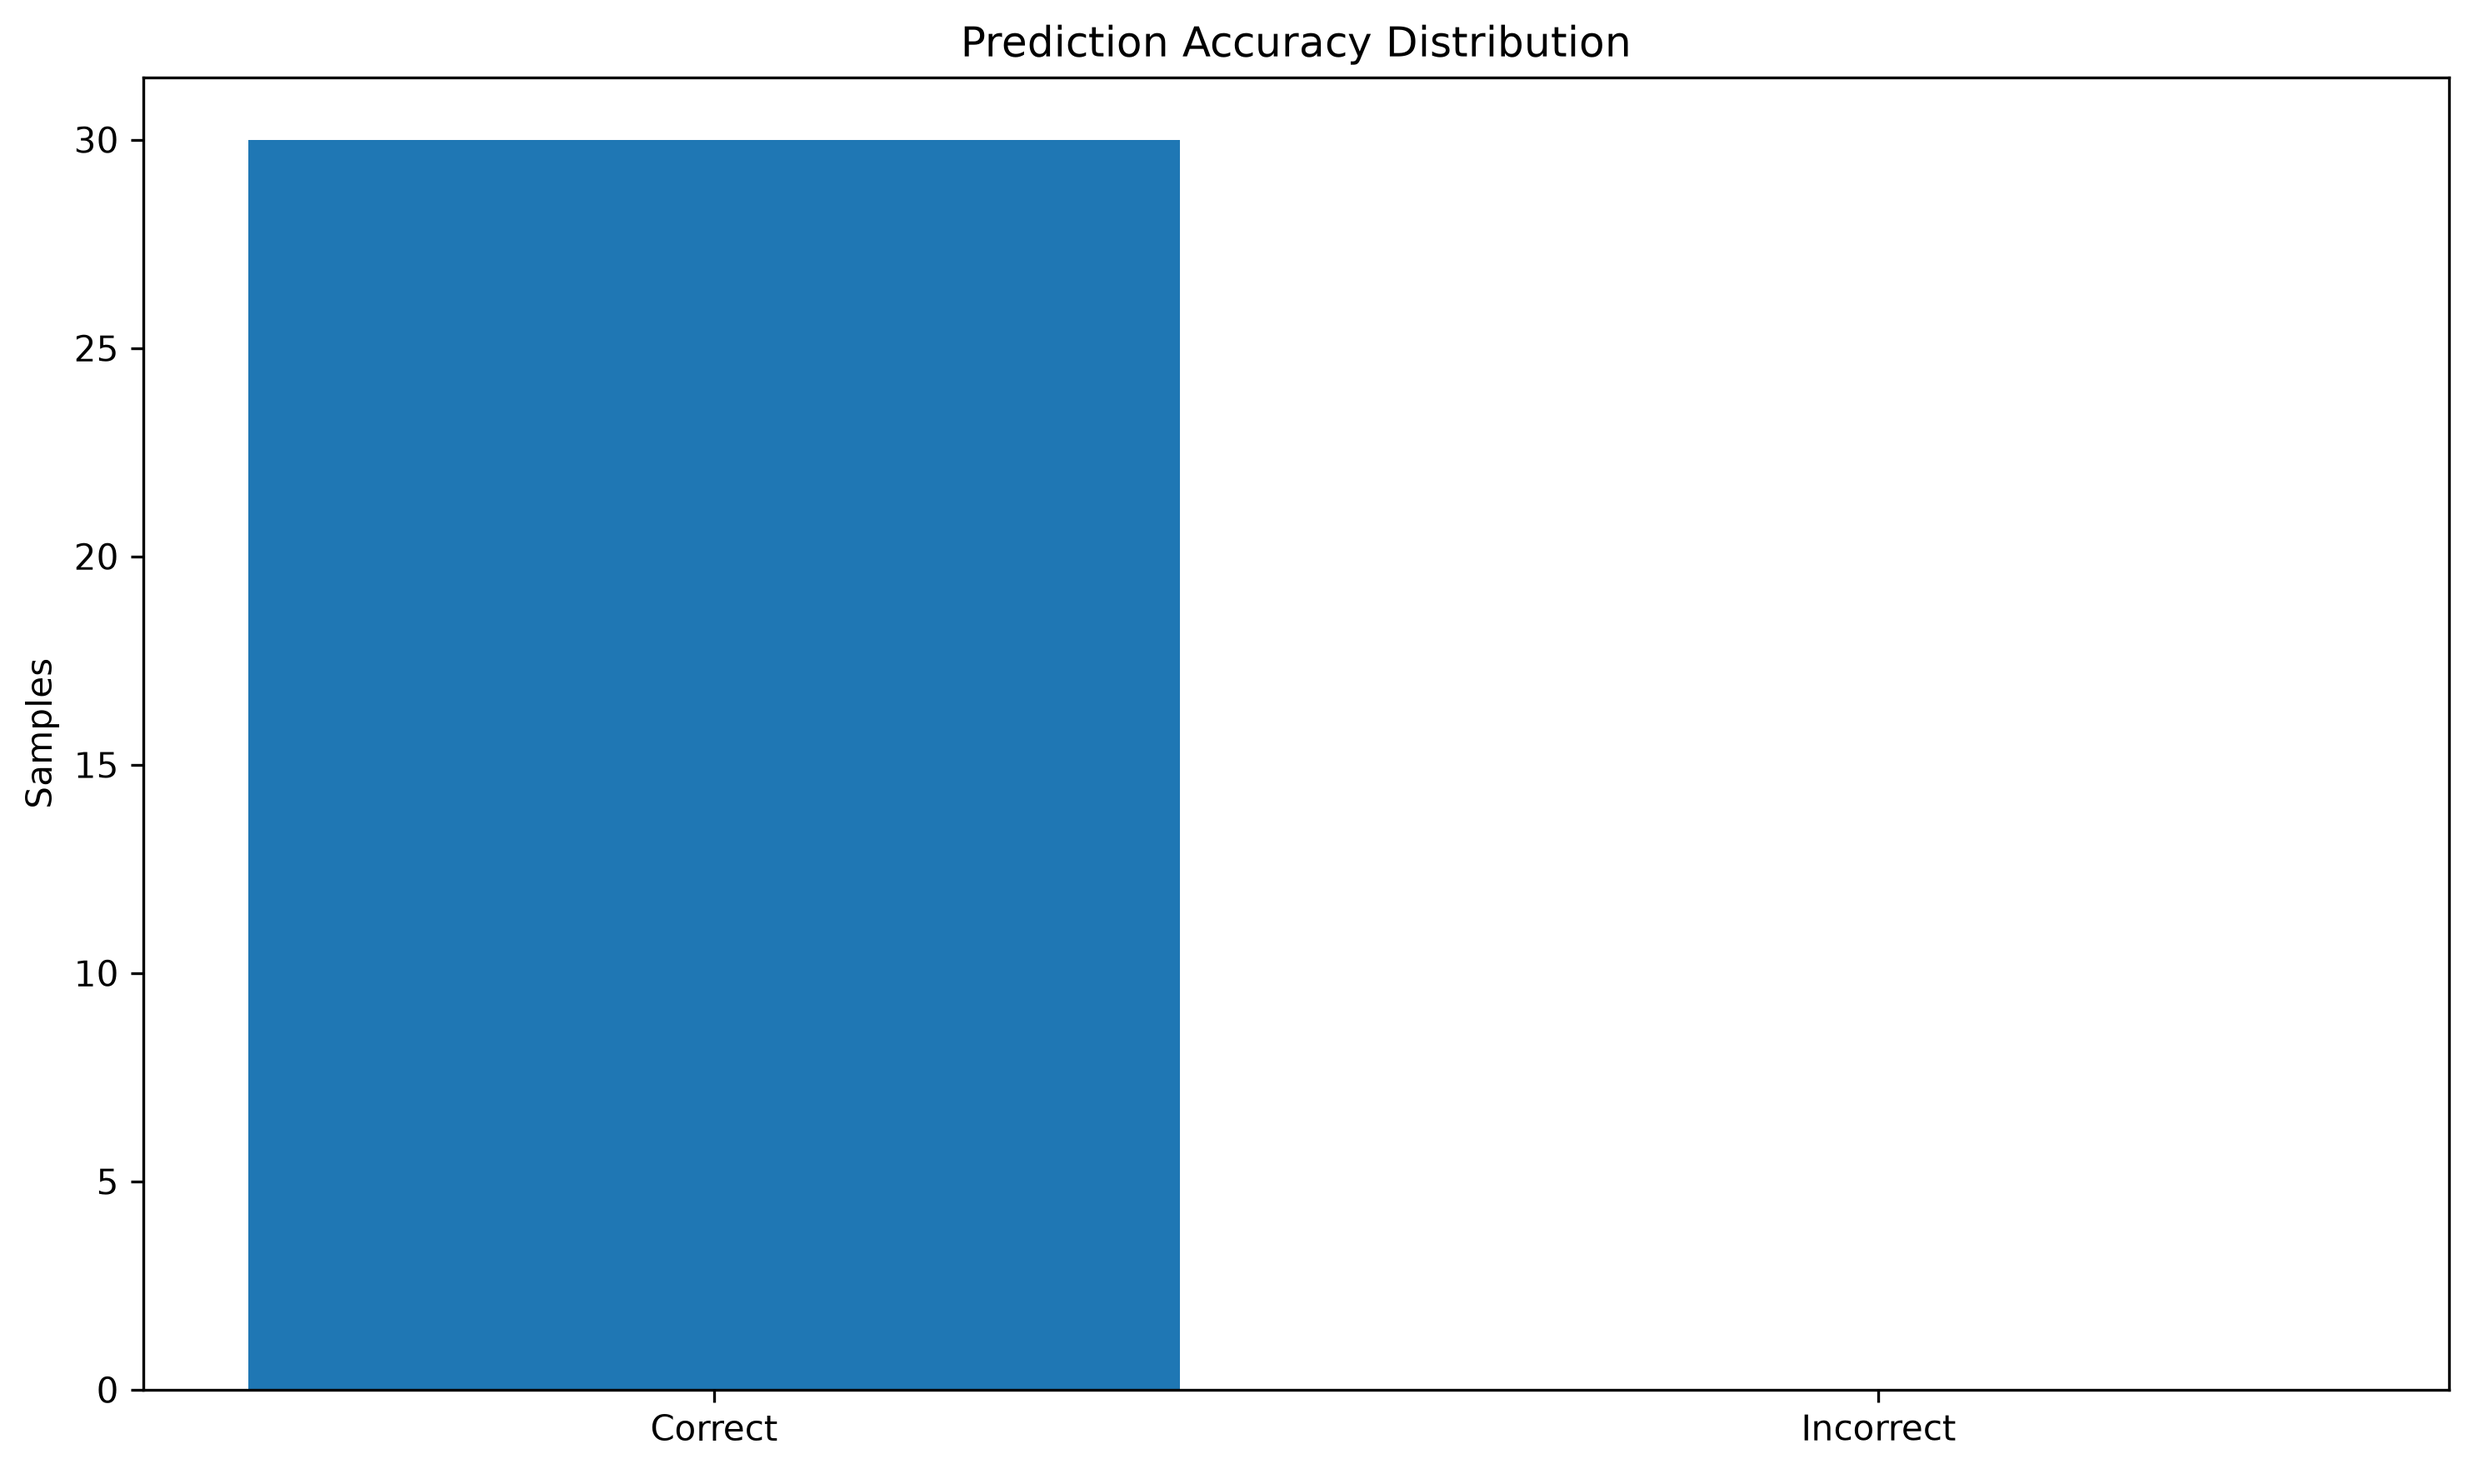
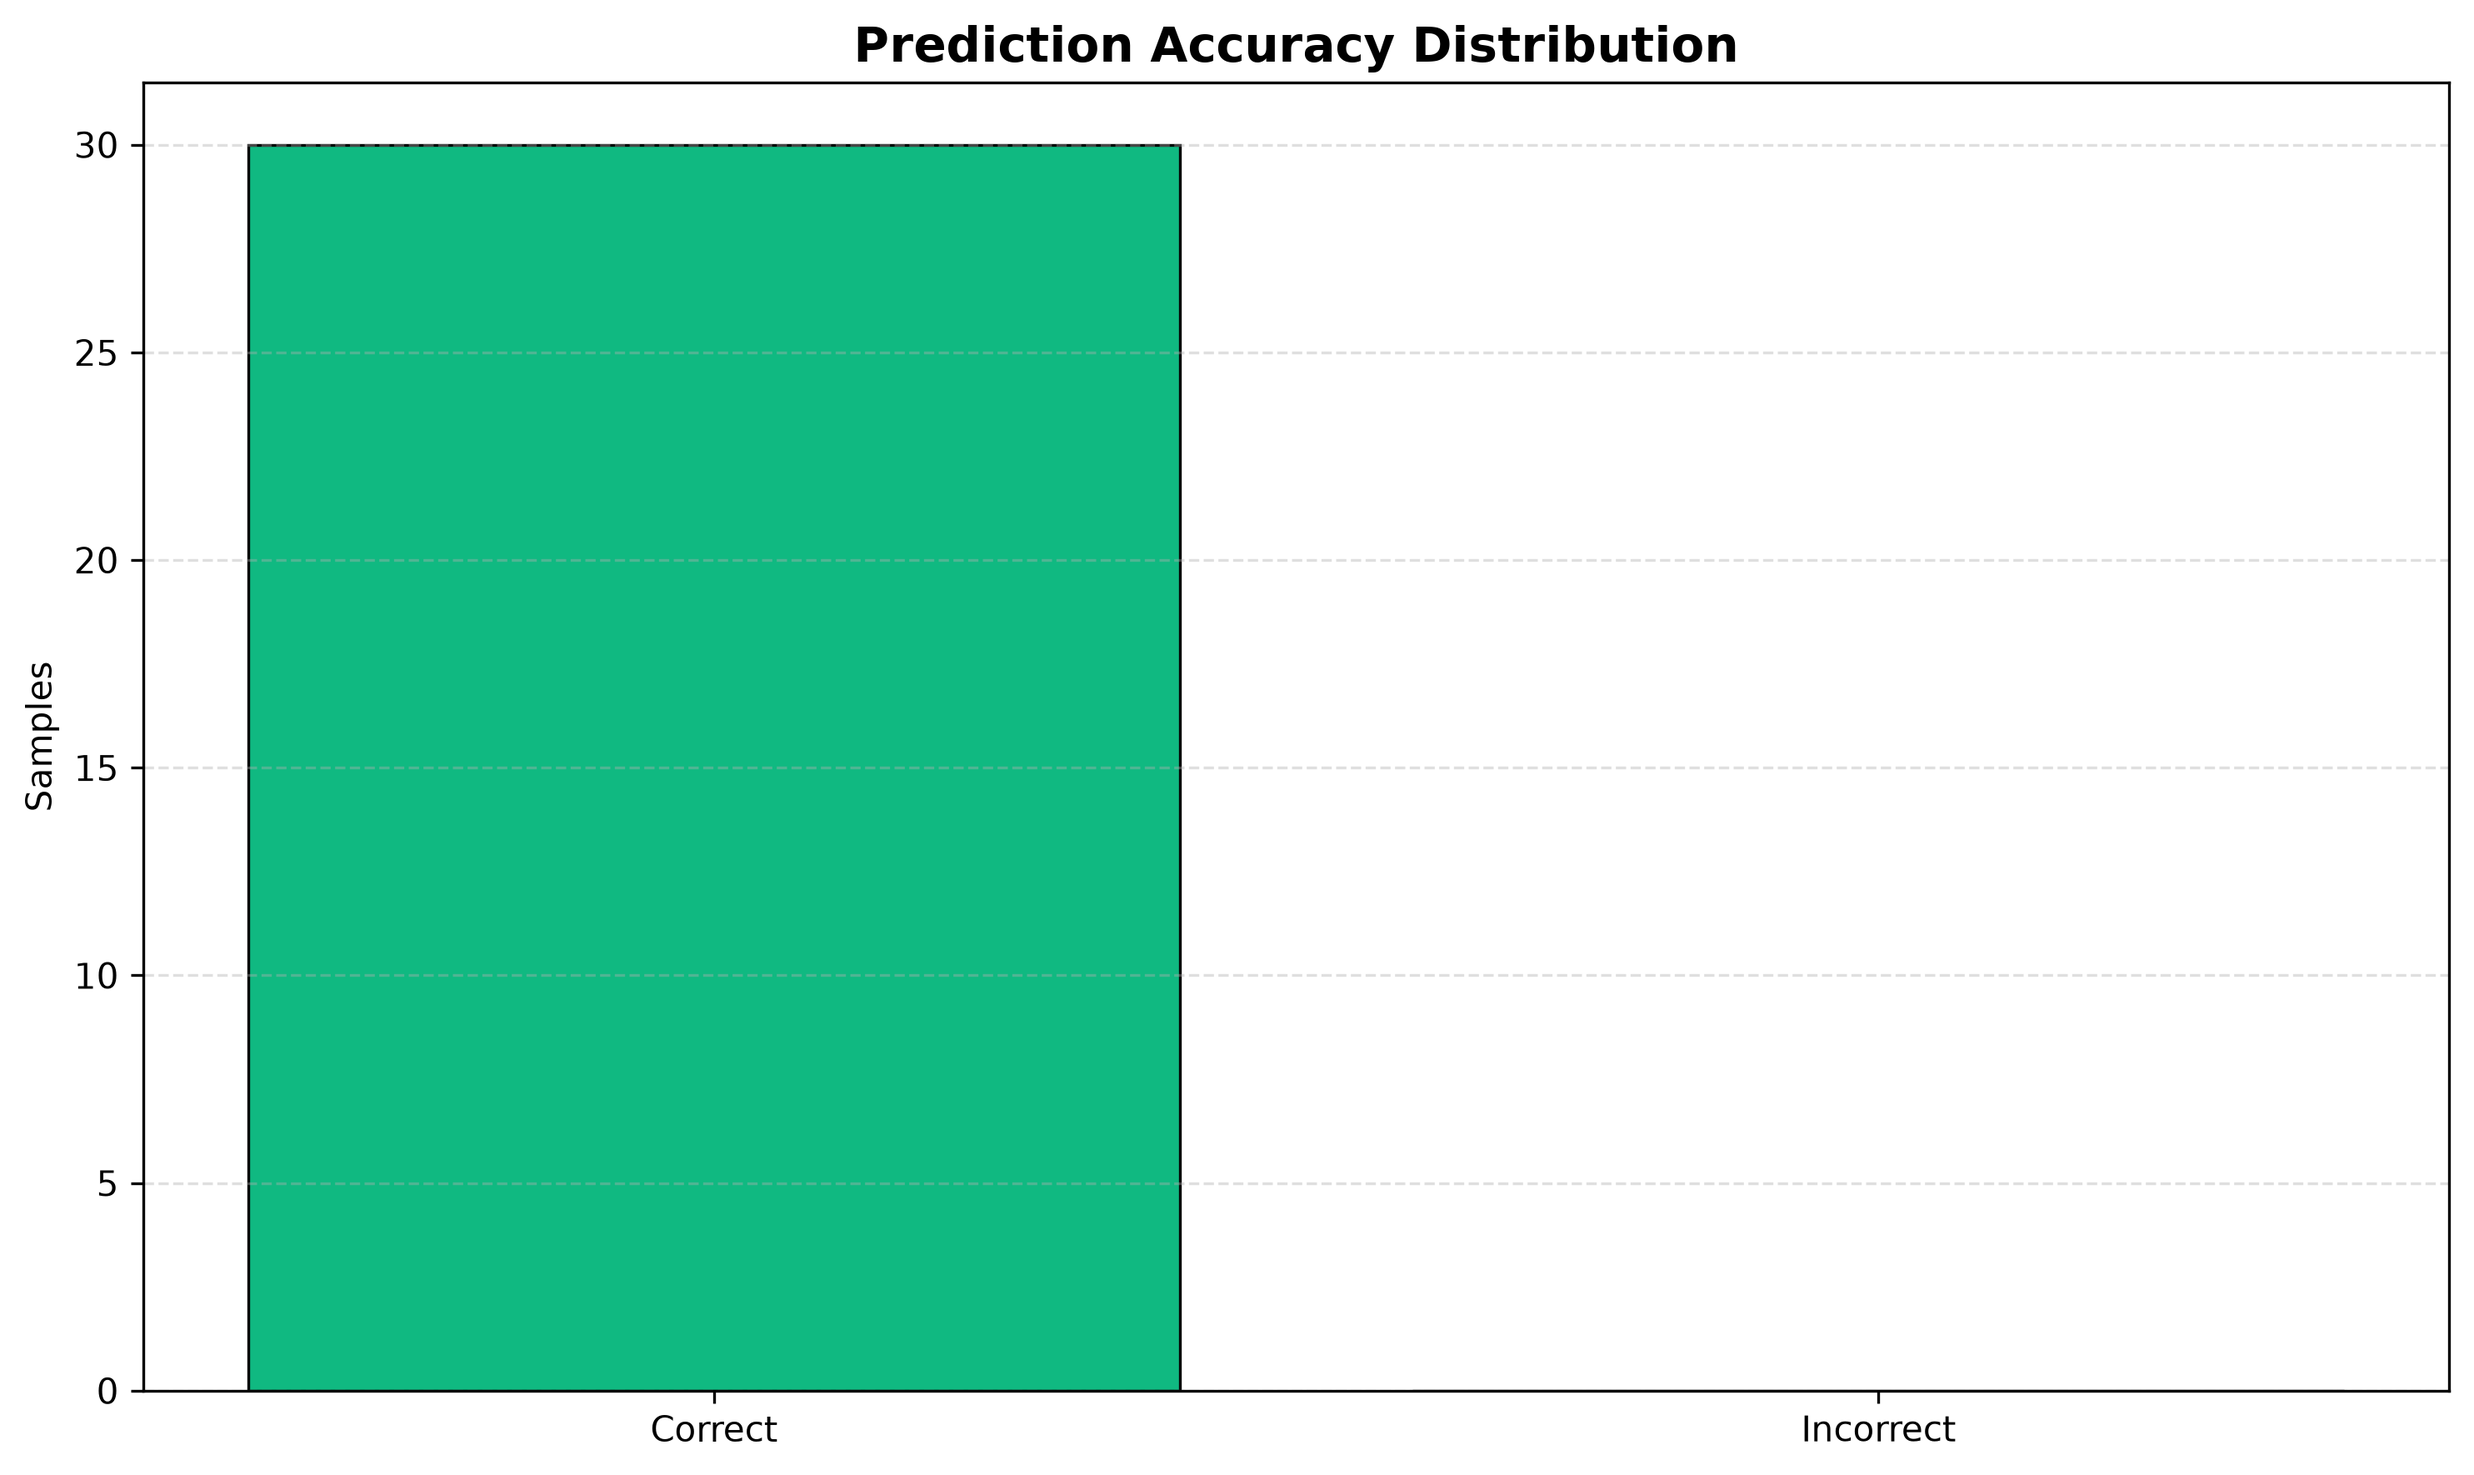
error distribution

diff --git a/backend/app/services/visualization_service.py b/backend/app/services/visualization_service.py
@@ -315,11 +315,27 @@ def generate_error_distribution_chart(
 
     plt.figure(figsize=(10, 6))
 
-    plt.bar(labels, values)
+    plt.bar(
+        labels,
+        values,
+        color=["#10B981", "#EF4444"],
+        edgecolor="black",
+        linewidth=0.8,
+    )
 
     plt.ylabel("Samples")
 
-    plt.title("Prediction Accuracy Distribution")
+    plt.grid(
+        axis="y",
+        linestyle="--",
+        alpha=0.4,
+    )
+    
+    plt.title(
+        "Prediction Accuracy Distribution",
+        fontsize=14,
+        fontweight="bold",
+    )
 
     plt.tight_layout()
 
